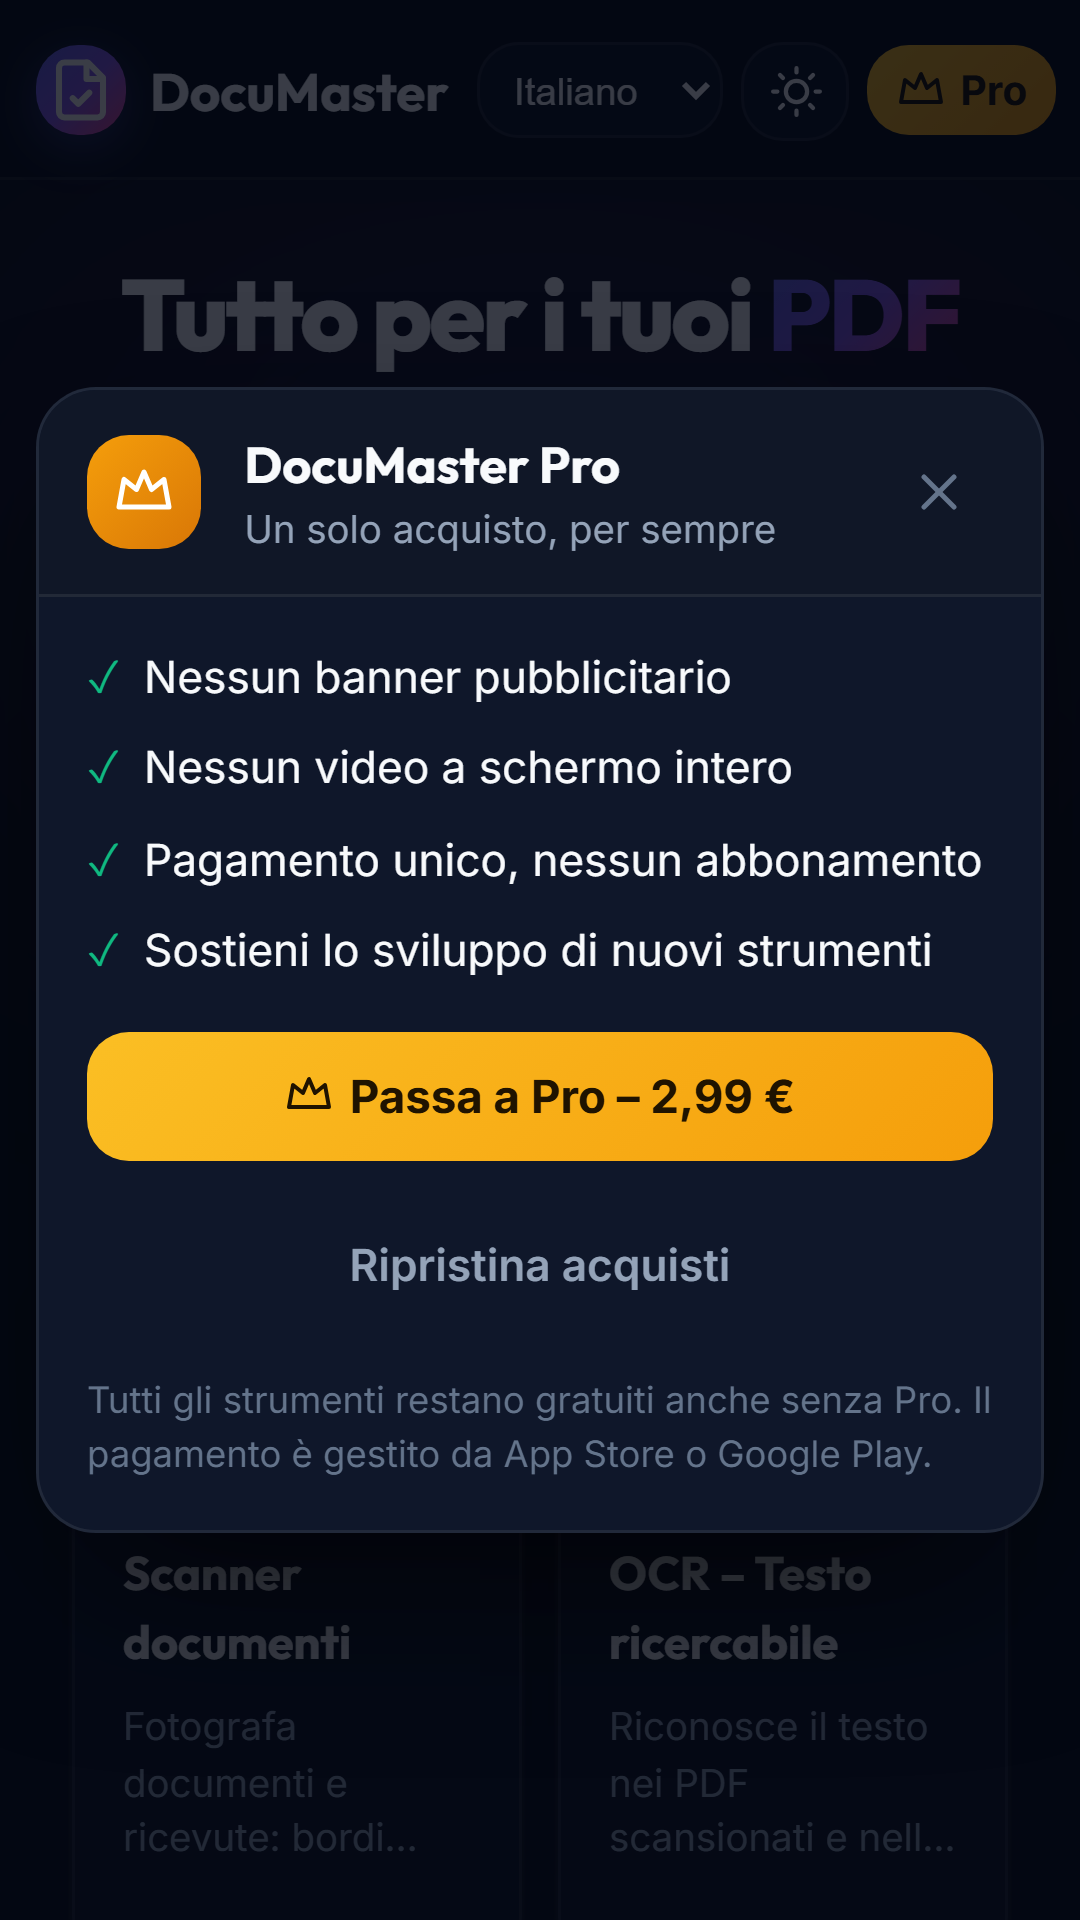
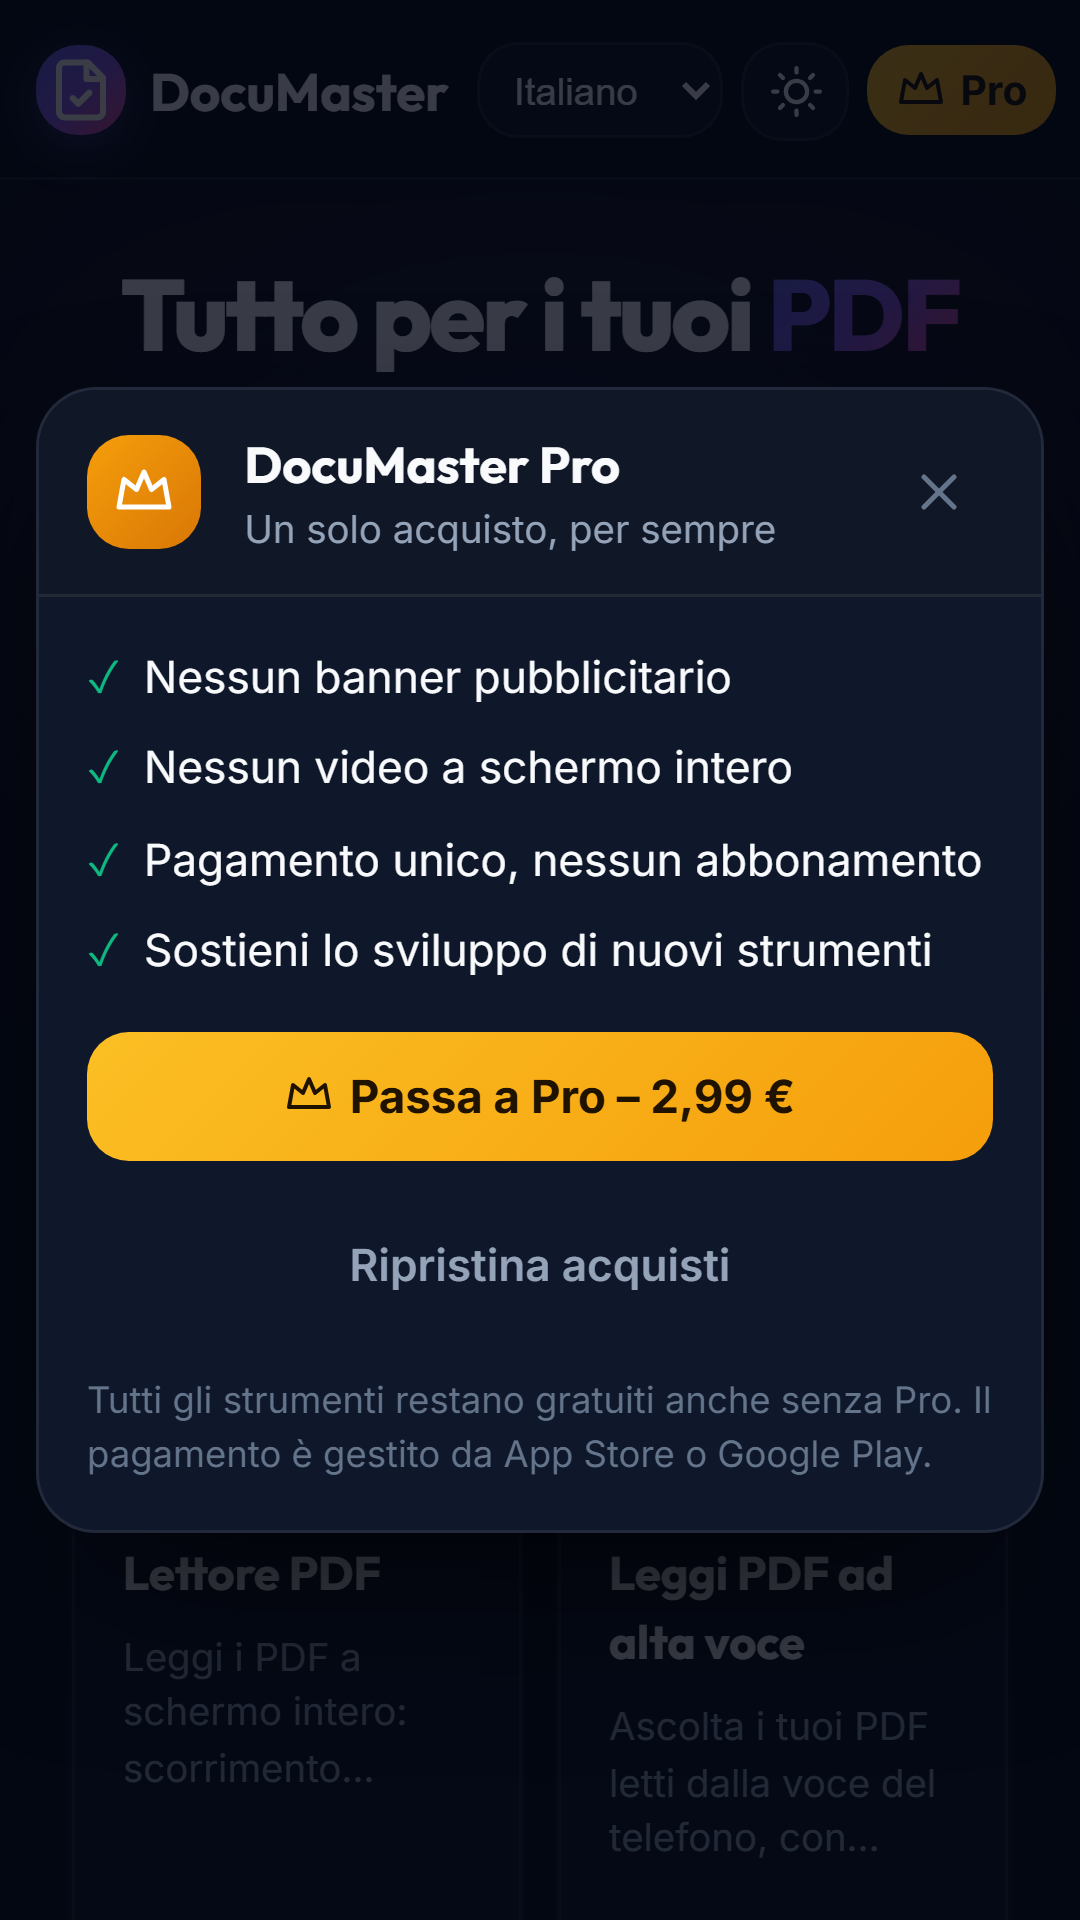
Play Console app created; listing texts mention reader/read aloud (24 tools); Android screenshots with reader

Changed region(s): [[0.5806, 0.8125, 0.8556, 0.9688], [0.1222, 0.8125, 0.3667, 0.9688]]

diff --git a/PUBBLICAZIONE.md b/PUBBLICAZIONE.md
@@ -26,7 +26,7 @@ Aggiornato al 14/10/2026.
 
 ## ⏳ Da fare
 
-1. **Android / Google Play**
+1. **Android / Google Play** — app creata su Play Console il 17/10/2026 (id `4976308306820947948`, account personale: serve un **test chiuso con 12 tester per 14 giorni** prima della produzione). Scheda en-US salvata in bozza (testi, icona, grafica, 7 screenshot `*-android-1080x1920.png`).
    - Generare un keystore e caricarlo **tu** su Codemagic (Code signing identities → Android keystores) con il nome `documaster_android`. Le password non le inserisco io.
    - Poi avvio la build `android-release` (AAB).
    - Su Play Console: creare l'app `com.ikonet.documaster`, il prodotto in-app `documaster_pro` a 2,99 € e fare il primo caricamento dell'AAB a mano.
